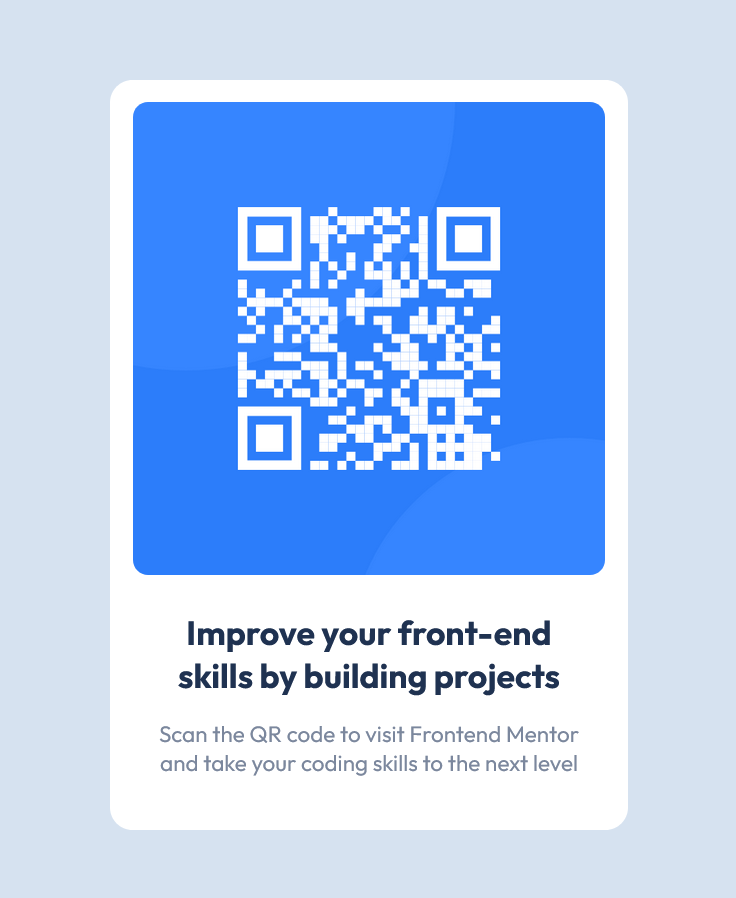
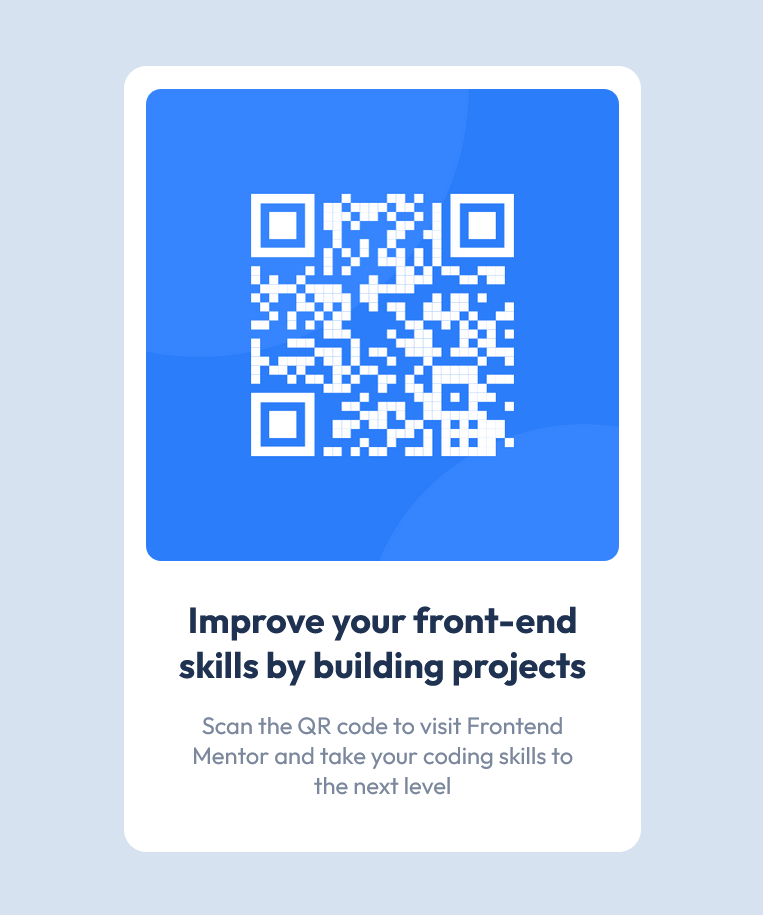
text adjustments

Changed region(s): [[0.125, 0.0624, 0.875, 0.9354], [0.3125, 0.1871, 0.6875, 0.5301]]

diff --git a/index.html b/index.html
@@ -13,7 +13,7 @@
         <div class="qr">
           <img src="images/image-qr-code.png" alt="QR code mockup image">
           <div class="text">
-            <h2>Improve your front-end skills by building projects</h2>
+            <h1>Improve your front-end skills by building projects</h1>
             <p>Scan the QR code to visit Frontend Mentor and take your coding skills to the next level</p>
           </div>
         </div>

diff --git a/style.css b/style.css
@@ -40,11 +40,15 @@ img {
   padding: 20px 10px;
 }
 
-.text h2 {
+.text h1 {
   color: hsl(218, 44%, 22%);
   padding-bottom: 15px;
+  font-size: 1.5rem;
 }
 
 .text p{
   color: hsl(220, 15%, 55%);
+  padding-left: 10px;
+  padding-right: 10px; 
+  font-size: 0.99rem;
 }
